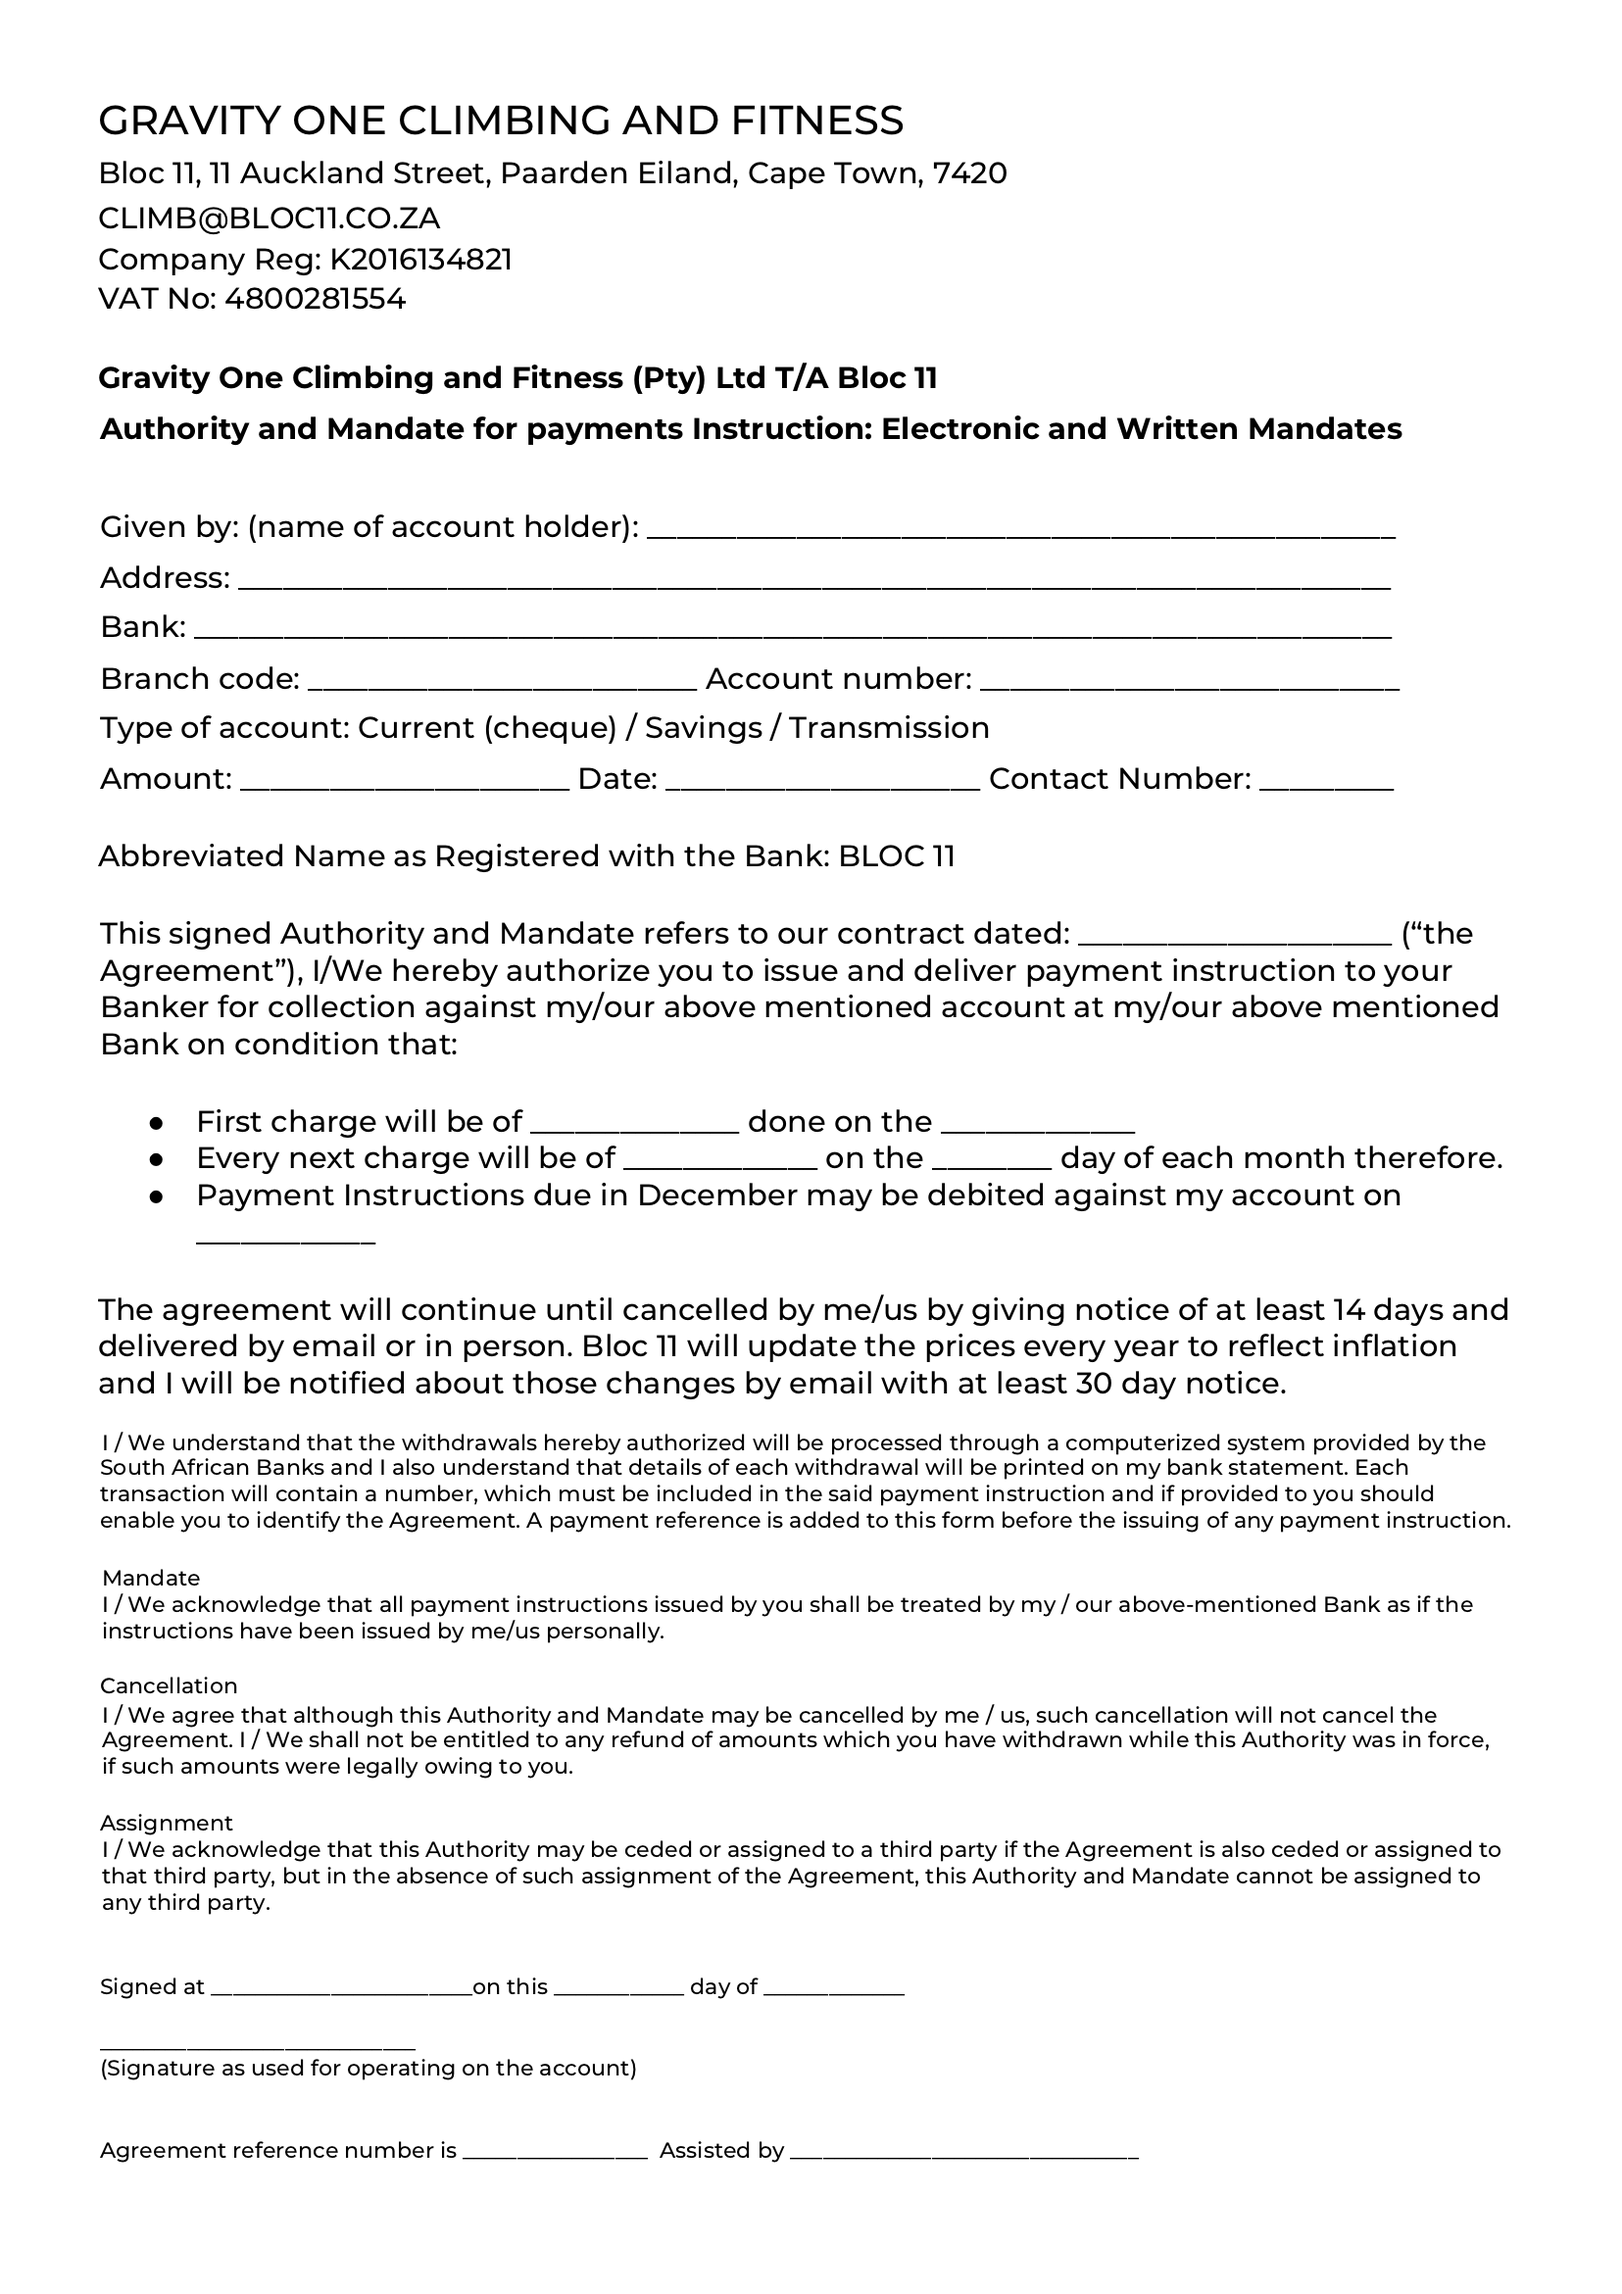
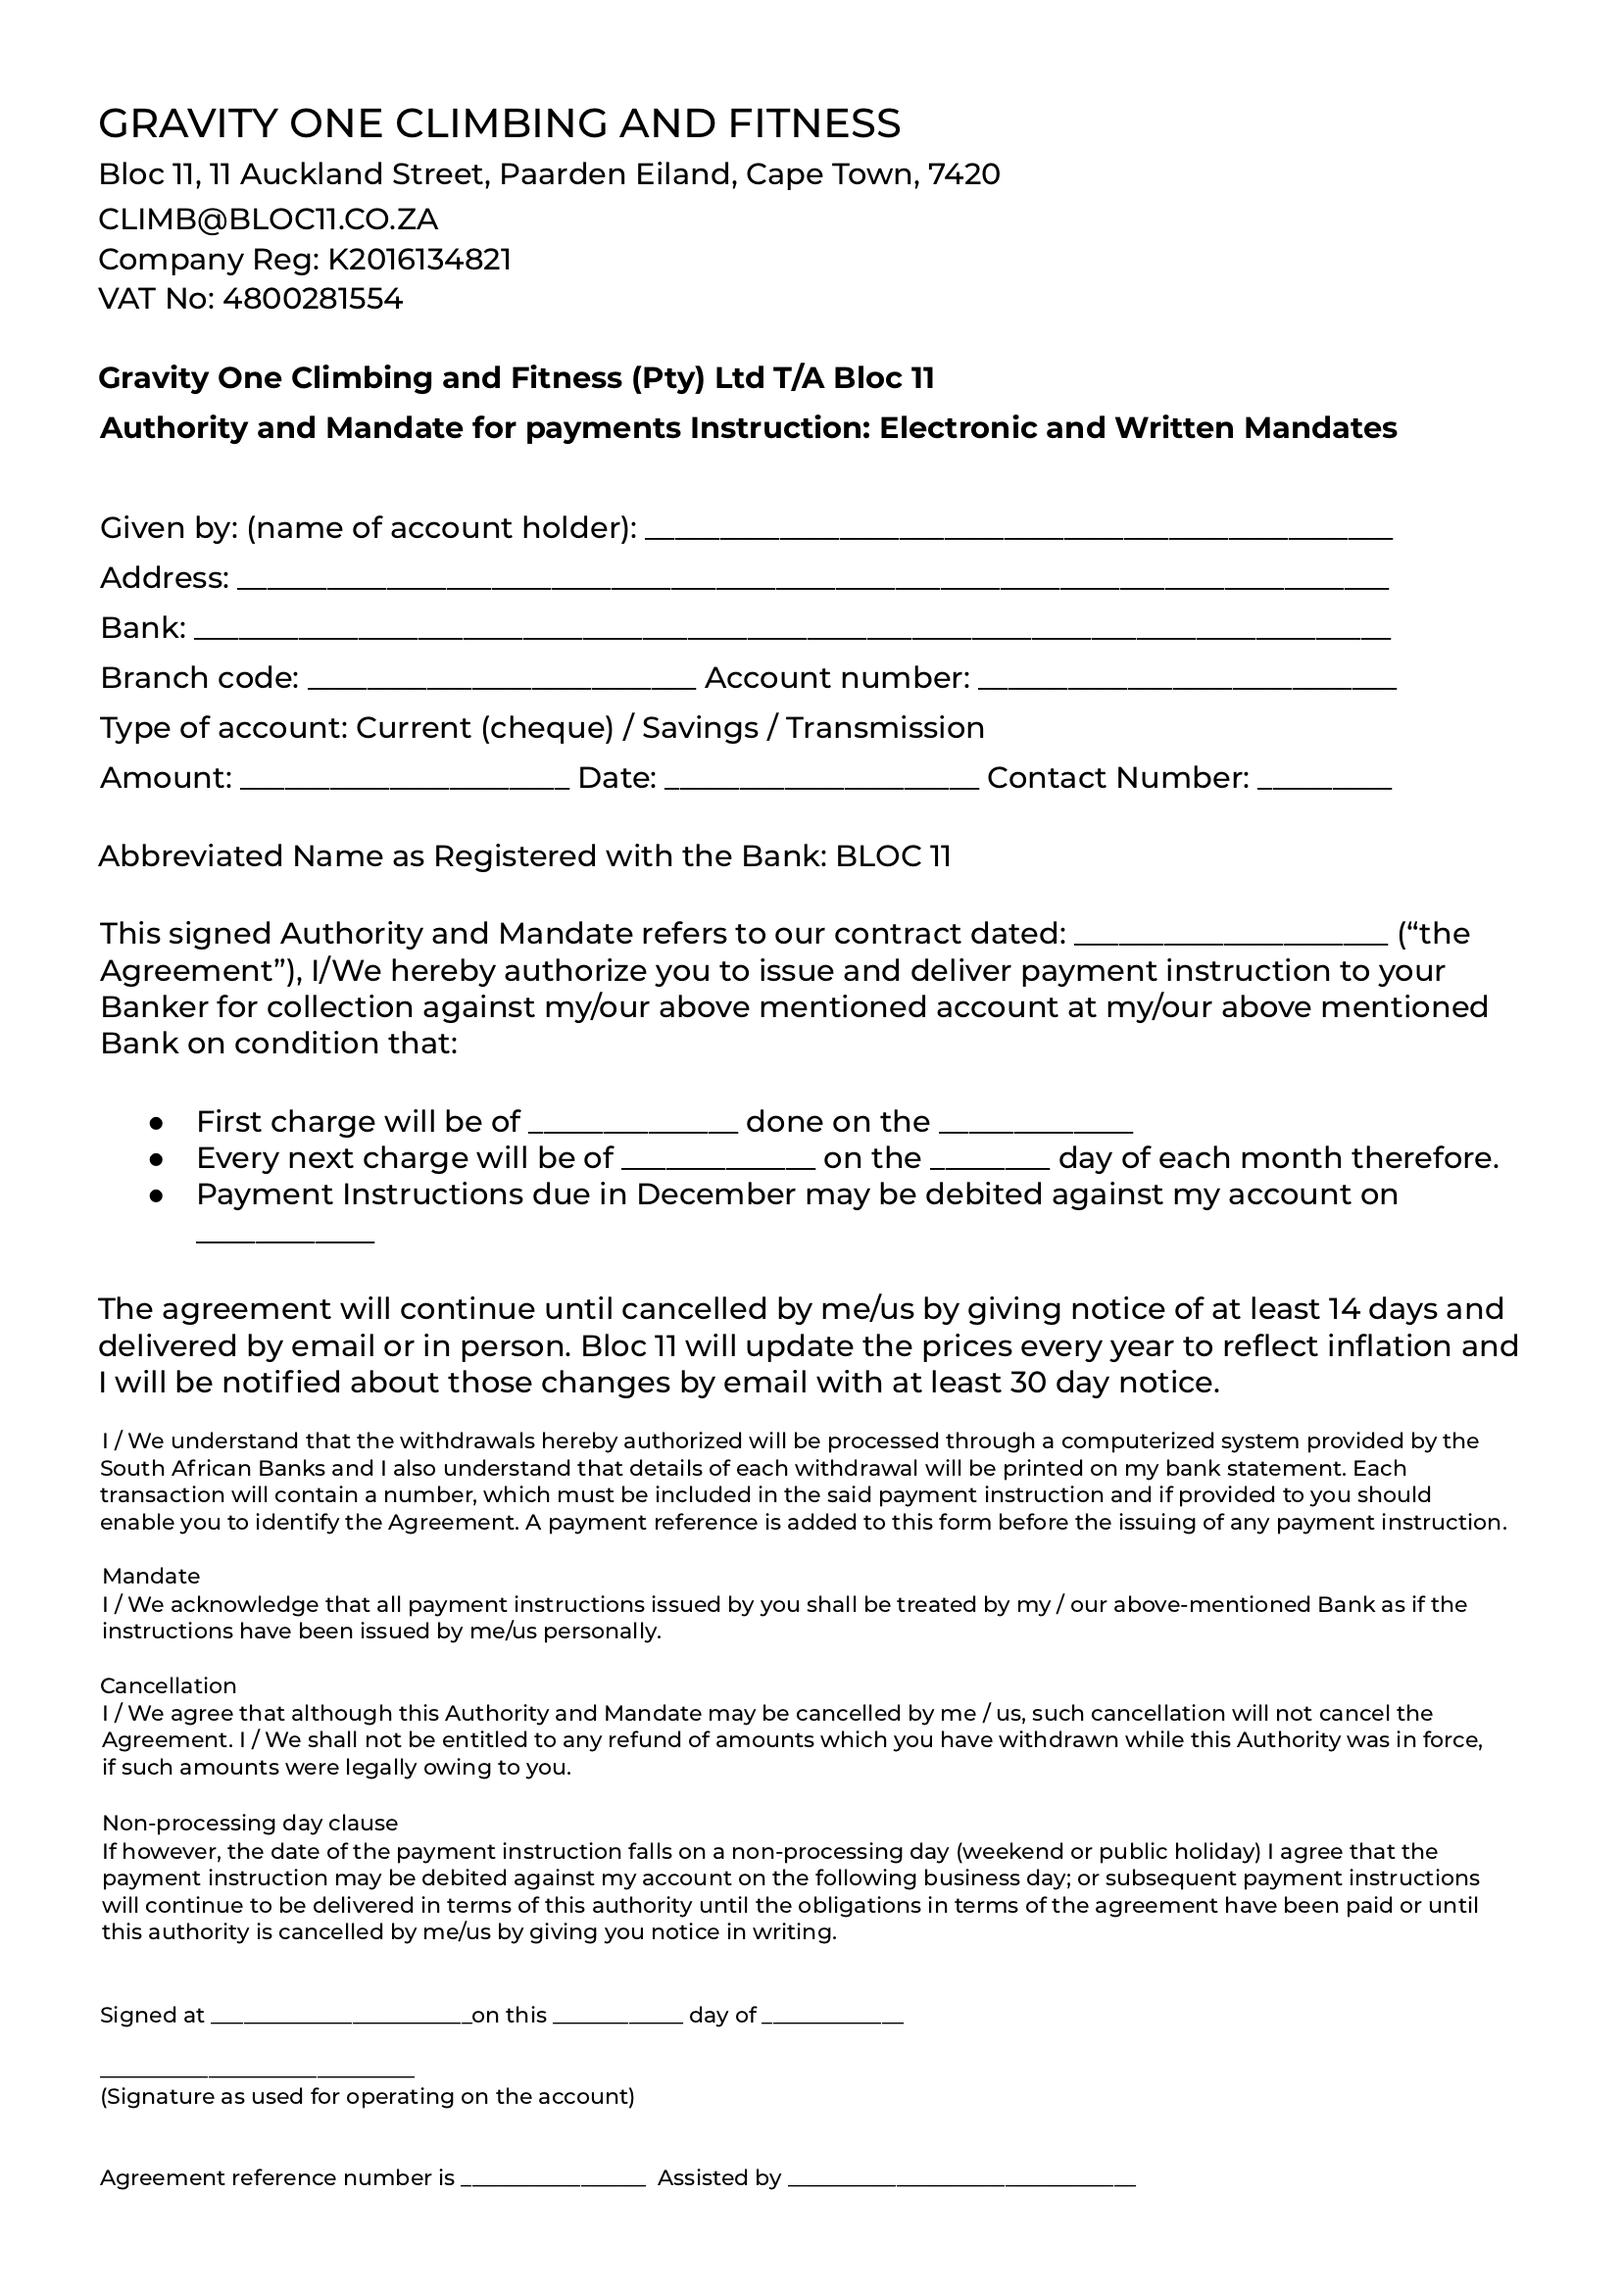
deal with charge day a bit better

diff --git a/authsys_common/queries.py b/authsys_common/queries.py
@@ -41,11 +41,11 @@ def get_member_data(con, no):
         and_(subscriptions.c.end_timestamp > time.time(), subscriptions.c.member_id == no)).order_by(
         subscriptions.c.end_timestamp)))
     m_id, name, m_id_number, phone, tstamp, memb_type, notes, sub_type, account_number, \
-        debit_order_signup_timestamp, last_id_checked, last_id_update, photo, id_photo = list(con.execute(select(
+        debit_order_signup_timestamp, last_id_checked, last_id_update, photo, id_photo, charge_day = list(con.execute(select(
         [members.c.id, members.c.name, members.c.id_number, members.c.phone, members.c.timestamp, members.c.member_type,
         members.c.extra_notes, members.c.subscription_type, members.c.account_number, members.c.debit_order_signup_timestamp,
         members.c.last_id_checked, members.c.last_id_update,
-        members.c.photo, members.c.id_photo]).where(
+        members.c.photo, members.c.id_photo, members.c.debit_order_charge_day]).where(
         members.c.id == no)))[0]
     if last_id_checked is None:
         f_checks = [x[0] for x in con.execute(select([failed_checks.c.timestamp]).where(
@@ -87,6 +87,7 @@ def get_member_data(con, no):
          'subscription_type': sub_type, 'account_number': account_number,
          'last_id_update': last_id_update, 'last_id_checked': last_id_checked,
          'failed_checks': f_checks,
+         'charge_day': charge_day,
          'photo_present': photo is not None,
          'next_monday': int(get_next_monday()), 'debit_order_signup_timestamp': debit_order_signup_timestamp}
     #r['covid_indemnity_signed'] = len(list(con.execute(select([covid_indemnity.c.member_id]).where(covid_indemnity.c.member_id == no))))

diff --git a/authsys_common/mandate.py b/authsys_common/mandate.py
@@ -52,7 +52,7 @@ def create_mandate(member_id, name, address, bank, branch_code, account_number, 
     price_per_day = price / days_in_month
     first_charge = price_per_day * (days_in_month - now.day)
     first_charge_day = datetime.now().replace(minute=0, hour=0, second=0, day=charge_day)
-    if charge_day < datetime.now().day:
+    if charge_day < datetime.now().day + 5:
         first_charge += price
         first_charge_day = add_month(first_charge_day)
 
